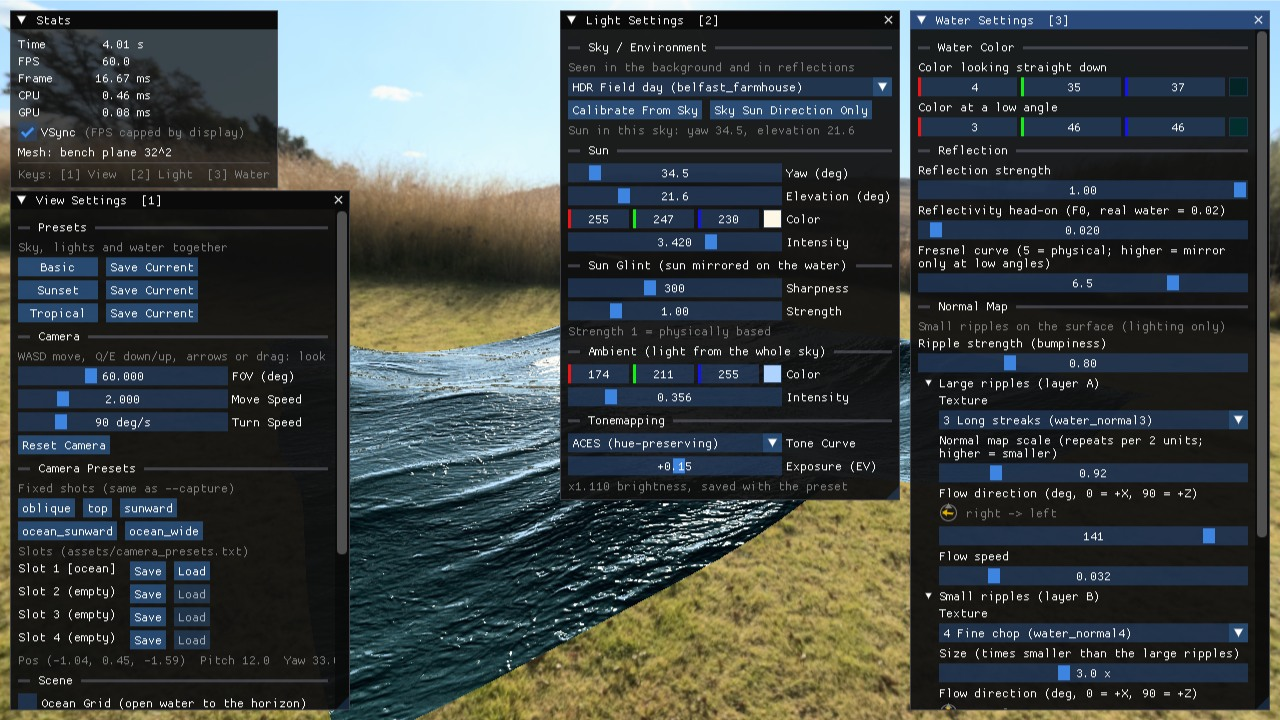
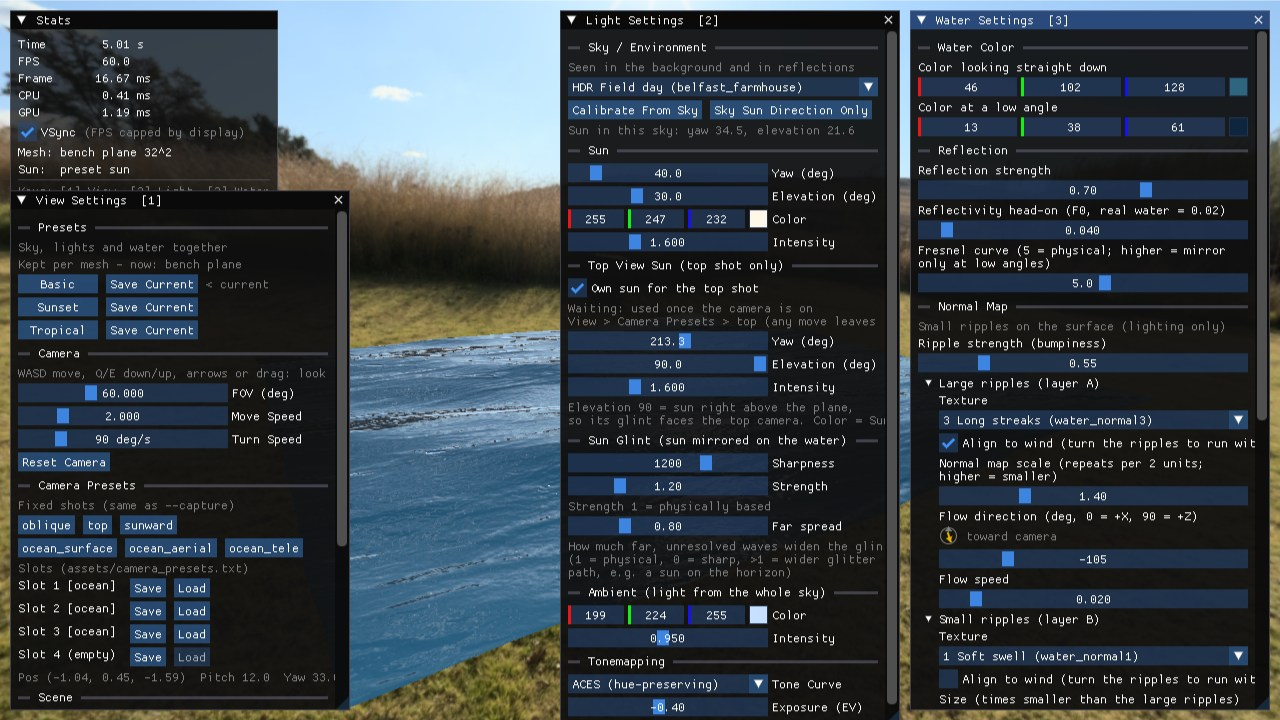
docs(readme): refresh screenshots and list the latest updates
New hero (Basic, ocean_surface), preset comparison (ocean_surface x 3 themes),
2026-05 vs current (sunward), debug views and the settings windows, all from the
current renderer and presets. The --shot list uses the new ocean shot names, and
the changelog lists ripple-flow-fix, preset-themes, mesh-presets, top-view-sun
and ocean-shots.

diff --git a/docs/CHANGELOG.md b/docs/CHANGELOG.md
@@ -27,6 +27,7 @@
 | 가까운 파도와 먼 물결의 방향이 X자로 엇갈림 | 거리에 따라 파도를 줄이는 처리가 높이와 함께 물결의 기울기까지 지워, 먼 곳에는 바람과 무관한 노멀맵 무늬만 남았습니다. 먼 곳의 파도 기울기를 픽셀 단위로 다시 계산하고, 노멀맵 무늬를 바람 방향으로 돌리는 옵션을 넣었습니다 | [wave-far-normals](features/wave-far-normals/NOTES.md) |
 | (위 수정의 1차 결과) 먼 바다에 마름모 격자 무늬가 생김 | 같은 대비의 파도 줄무늬 4개가 원근으로 압축되며 엇갈렸습니다. 픽셀이 충분히 표현할 수 있는 구간까지만 물결로 그리고, 그보다 작은 물결은 표면 거칠기로 바꿔 햇빛 반짝임을 넓히는 방식으로 고쳤습니다 | [wave-far-normals](features/wave-far-normals/NOTES.md) |
 | 해를 등진 먼 바다에서 나무·하늘 반사가 회색으로 뭉개짐 | 거칠기만큼 하늘 반사를 흐리게 한 처리가 반사 형상을 지웠습니다. 반사율(Fresnel) 가설은 측정해 보니 효과가 없었습니다. 반사 흐림을 제거했습니다. 해를 등진 캡처 샷이 없어 처음엔 놓쳤기에 이 샷도 추가했습니다 | [wave-far-normals](features/wave-far-normals/NOTES.md) |
+| 바람 정렬을 켠 잔물결이 흐름 방향 표시와 다른 쪽으로 흐름 | 텍스처를 회전한 뒤에 흐름 이동을 더해, 흐름까지 정렬 각도만큼 돌아가 있었습니다(Sunset에서 49°). 이동을 회전 전에 더하도록 고치고, 두 시점의 무늬 이동을 측정해 표시와 1° 이내로 맞음을 확인했습니다 | [ripple-flow-fix](features/ripple-flow-fix/NOTES.md) |
 
 ### 퀄리티 업
 
@@ -44,6 +45,10 @@
 | 노멀맵 바람 정렬(Align to wind)과 텍스처별 무늬 방향 측정 도구 | [wave-far-normals](features/wave-far-normals/NOTES.md) |
 | 먼 바다 햇빛 반짝임 폭 조절(Far spread): 해가 수평선에 걸린 장면 연출용 | [wave-far-normals](features/wave-far-normals/NOTES.md) |
 | 캡처 도구: 고정 프리셋 파일로 찍기, 기능 켜고 끄기 옵션, 해를 등진 고정 샷 | [wave-far-normals](features/wave-far-normals/NOTES.md) |
+| 세 프리셋을 테마로 재구성: 잔잔한 호수(Basic) / 바람 센 노을 바다(Sunset) / 에메랄드빛 바다(Tropical). 테마마다 파도 모양과 노멀맵 조합이 다름 | [preset-themes](features/preset-themes/NOTES.md) |
+| 프리셋을 작은 평면 / 오션 그리드별로 따로 저장하고, 평면을 바꾸면 그 평면의 버전을 자동 적용 | [mesh-presets](features/mesh-presets/NOTES.md) |
+| 위에서 내려다보는 top 샷 전용 태양(방향 + 세기): 정반사가 카메라로 오도록 해를 평면 정면에 둠 | [top-view-sun](features/top-view-sun/NOTES.md) |
+| 오션 고정 샷을 수면 역광 / 항공 부감 / 망원 압축으로 재구성 | [ocean-shots](features/ocean-shots/NOTES.md) |
 
 ## 2026-05 — 기존 버전
 

diff --git a/README.md b/README.md
@@ -49,7 +49,7 @@ cmake --build --preset vs2022-debug       # Release는 vs2022-release
 
 - 빌드 후 셰이더와 `assets/`가 실행 파일 옆으로 복사됩니다.
 - **핫 리로드**: `shaders/`의 `.hlsl`/`.hlsli`를 저장하면 200ms 안에 다시 컴파일합니다. Debug 빌드는 소스 `shaders/`와 `assets/`를 직접 쓰고, Release 빌드는 실행 파일 옆 복사본을 읽습니다.
-- Debug 빌드에서 `Save Current`를 누르면 저장소의 `assets/shader_presets.txt`가 바뀝니다.
+- Debug 빌드에서 `Save Current`를 누르면 저장소의 `assets/shader_presets.txt`가 바뀝니다. 프리셋은 작은 평면과 오션 그리드에 따로 저장되고, `Save Current`는 지금 보고 있는 평면 쪽에 저장합니다.
 
 **명령줄 옵션** (캡처·측정용)
 
@@ -59,7 +59,7 @@ cmake --build --preset vs2022-debug       # Release는 vs2022-release
 | `--capture-feature <name>` | 저장 위치 `docs/features/<name>/captures/<label>/` |
 | `--preset-file <path>` | 프리셋을 이 파일에서 읽고 저장 (작업용 프리셋과 별개로 고정 값 캡처) |
 | `--debug <0-6>` | 캡처할 디버그 뷰 (6 = 파도 구간: 메시 / 픽셀 / 거칠기) |
-| `--shot <name>` | 시작 카메라 샷 (`oblique`, `top`, `sunward`, `ocean_sunward`, `ocean_wide`, `ocean_away`) |
+| `--shot <name>` | 시작 카메라 샷 (`oblique`, `top`, `sunward`, `ocean_surface`, `ocean_aerial`, `ocean_tele`) |
 | `--far-waves <on\|off>` | 먼 바다 파도 기울기·거칠기 켜기/끄기 (비교용) |
 | `--align-ripples <on\|off>` | 노멀맵 바람 정렬(Align to wind)을 프리셋 대신 지정 |
 | `--ui <view\|light\|water\|all>` | 설정 창을 연 상태로 시작 |
